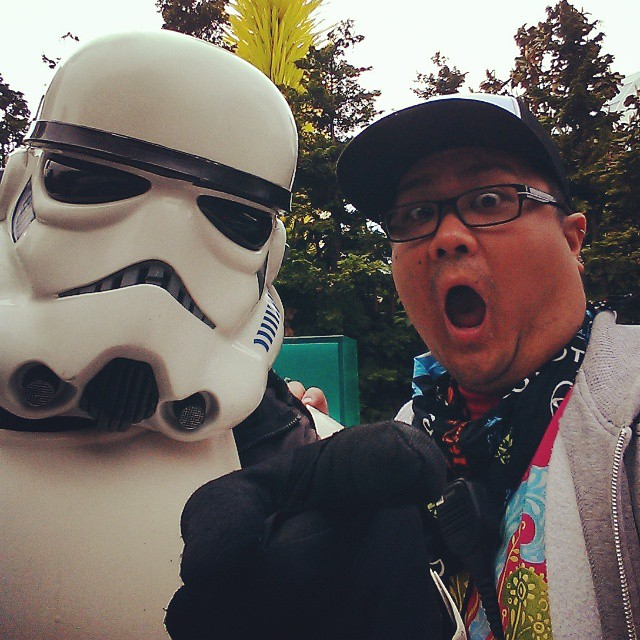
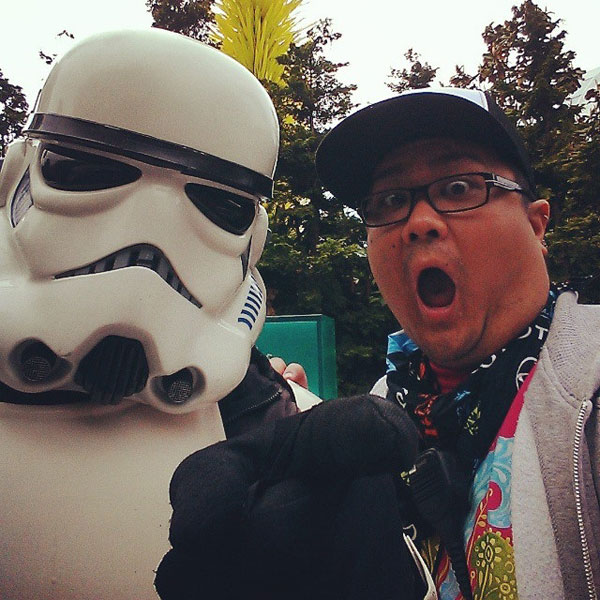
Finally made the images more reasonably sized.  No more 6MB images.

diff --git a/user/themes/antimatter/css/custom.css b/user/themes/antimatter/css/custom.css
@@ -46,8 +46,10 @@ a.nav_square_link{
 	margin: 1px;
 	float: left;
 	width: 33%;
+	height: 198px;
 	z-index: 1;
 	position: relative;
+	overflow: hidden;
 }
 
 

diff --git a/user/pages/03.blog/blog.md b/user/pages/03.blog/blog.md
@@ -10,4 +10,3 @@ content:
     url_taxonomy_filters: true
 ---
 
-Read all about my hip life.
